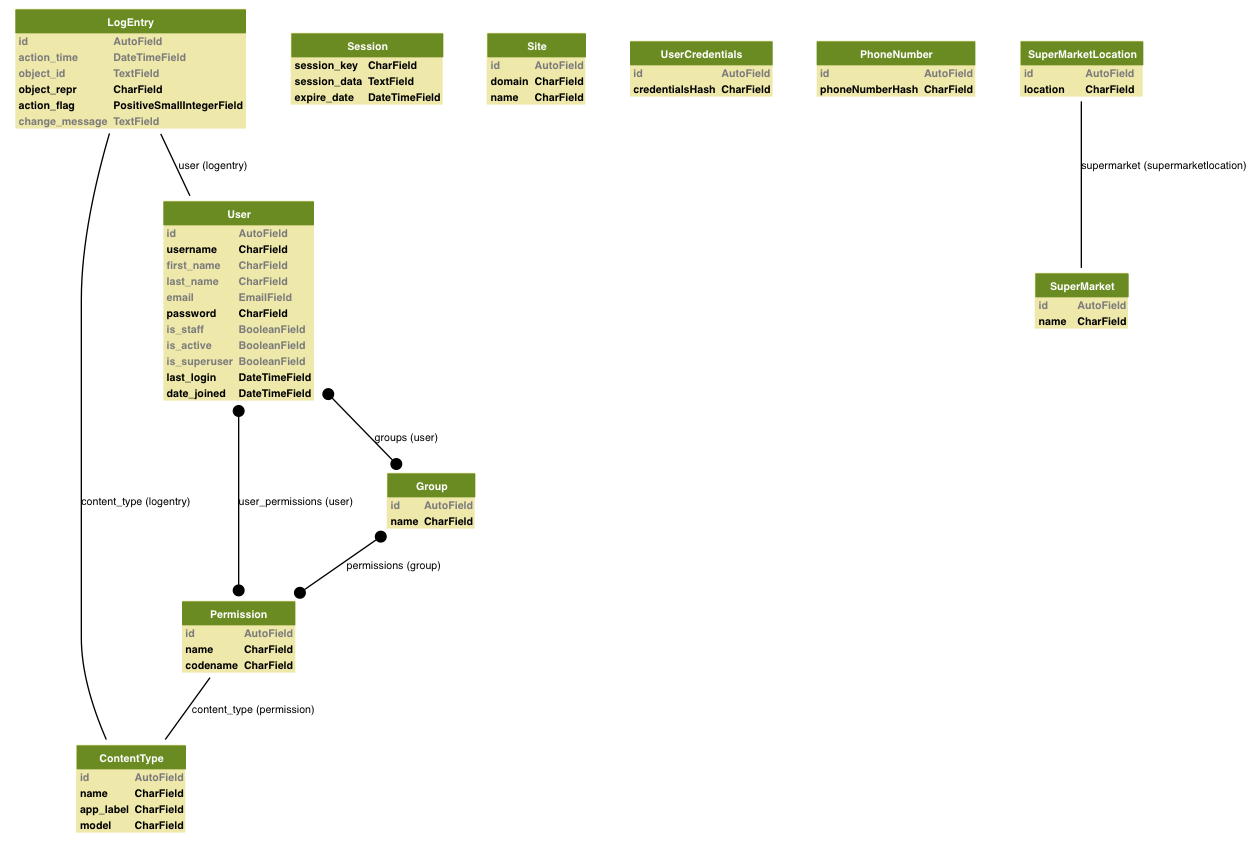
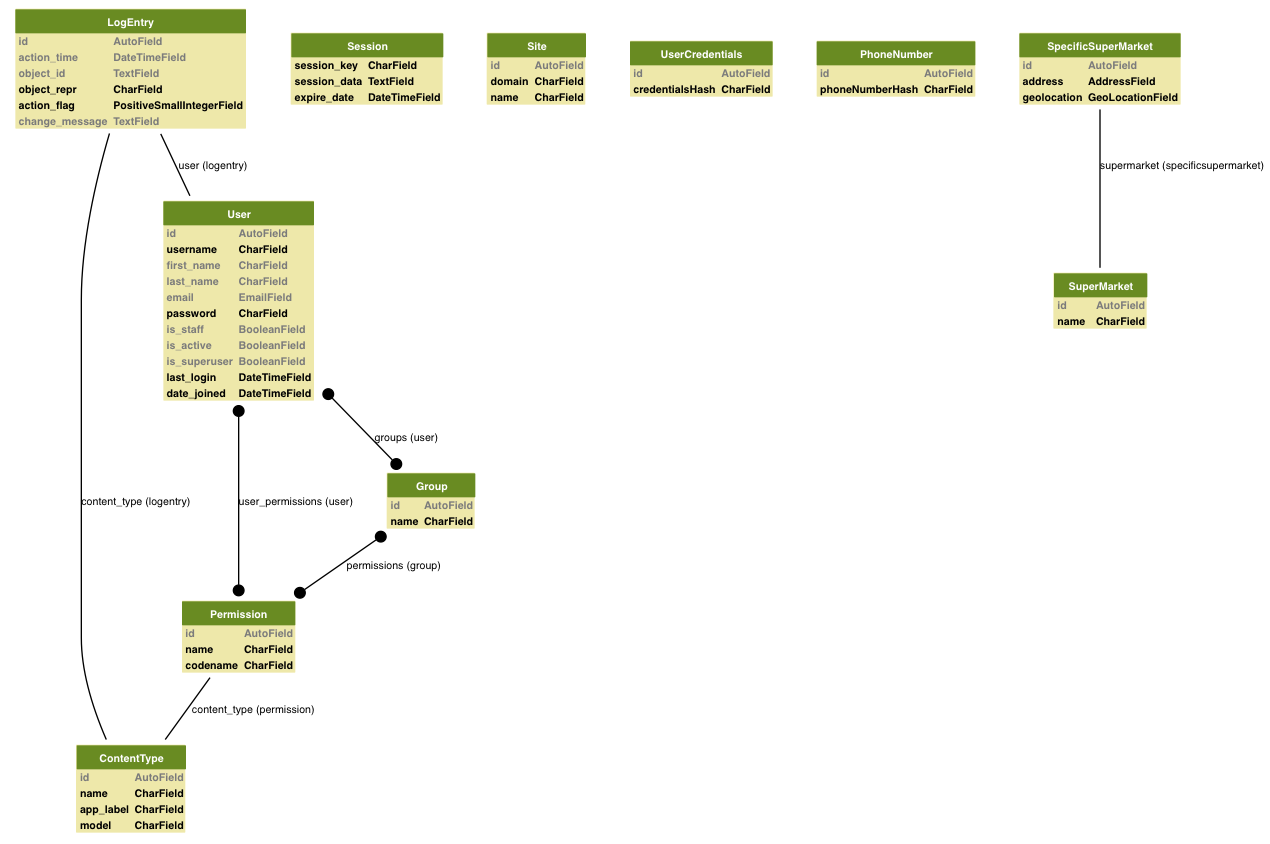
Geolocations

diff --git a/static/static/django_google_maps/js/google-maps-admin.js b/static/static/django_google_maps/js/google-maps-admin.js
@@ -1,0 +1,123 @@
+
+/*
+Integration for Google Maps in the django admin.
+
+How it works:
+
+You have an address field on the page.
+Enter an address and an on change event will update the map
+with the address. A marker will be placed at the address.
+If the user needs to move the marker, they can and the geolocation
+field will be updated.
+
+Only one marker will remain present on the map at a time.
+
+This script expects:
+
+<input type="text" name="address" id="id_address" />
+<input type="text" name="geolocation" id="id_geolocation" />
+
+<script type="text/javascript" src="http://maps.google.com/maps/api/js?sensor=false"></script>
+
+*/
+
+function googleMapAdmin() {
+
+    var geocoder = new google.maps.Geocoder();
+    var map;
+    var marker;
+
+    var self = {
+        initialize: function() {
+            var lat = 0;
+            var lng = 0;
+            var zoom = 2;
+            // set up initial map to be world view. also, add change
+            // event so changing address will update the map
+            existinglocation = self.getExistingLocation();
+            if (existinglocation) {
+                lat = existinglocation[0];
+                lng = existinglocation[1];
+                zoom = 18;
+            }
+
+            var latlng = new google.maps.LatLng(lat,lng);
+            var myOptions = {
+              zoom: zoom,
+              center: latlng,
+              mapTypeId: google.maps.MapTypeId.HYBRID
+            };
+            map = new google.maps.Map(document.getElementById("map_canvas"), myOptions);
+            if (existinglocation) {
+                self.setMarker(latlng);
+            }
+
+            $("#id_address").change(function() {self.codeAddress();});
+        },
+
+        getExistingLocation: function() {
+            var geolocation = $("#id_geolocation").val();
+            if (geolocation) {
+                return geolocation.split(',');
+            }
+        },
+
+        codeAddress: function() {
+            var address = $("#id_address").val();
+            geocoder.geocode({'address': address}, function(results, status) {
+                if (status == google.maps.GeocoderStatus.OK) {
+                    var latlng = results[0].geometry.location;
+                    map.setCenter(latlng);
+                    map.setZoom(18);
+
+                    self.setMarker(latlng);
+                    self.updateGeolocation(latlng);
+                } else {
+                    alert("Geocode was not successful for the following reason: " + status);
+                }
+            });
+        },
+
+        setMarker: function(latlng) {
+            if (marker) {
+                self.updateMarker(latlng);
+            } else {
+                self.addMarker({'latlng': latlng, 'draggable': true});
+            }
+        },
+
+        addMarker: function(Options) {
+            marker = new google.maps.Marker({
+                map: map,
+                position: Options.latlng
+            });
+
+            var draggable = Options.draggable || false;
+            if (draggable) {
+                self.addMarkerDrag(marker);
+            }
+        },
+
+        addMarkerDrag: function() {
+            marker.setDraggable(true);
+            google.maps.event.addListener(marker, 'dragend', function(new_location) {
+                self.updateGeolocation(new_location.latLng);
+            });
+        },
+
+        updateMarker: function(latlng) {
+            marker.setPosition(latlng);
+        },
+
+        updateGeolocation: function(latlng) {
+            $("#id_geolocation").val(latlng.lat() + "," + latlng.lng());
+        }
+    }
+
+    return self;
+}
+
+$(document).ready(function() {
+    var googlemap = googleMapAdmin();
+    googlemap.initialize();
+});

diff --git a/static/static/django_google_maps/css/google-maps-admin.css b/static/static/django_google_maps/css/google-maps-admin.css
@@ -1,0 +1,4 @@
+
+#id_address {width: 40em;}
+.map_canvas_wrapper {margin-left: 106px;}
+#map_canvas {width: 100%; height: 40em;}

diff --git a/EtikTak/settings.py b/EtikTak/settings.py
@@ -102,9 +102,6 @@ ROOT_URLCONF = 'EtikTak.urls'
 # Python dotted path to the WSGI application used by Django's runserver.
 WSGI_APPLICATION = 'EtikTak.wsgi.application'
 
-MAP_API='google'
-MAP_API_KEY='AIzaSyByFZJomT67Zug0EPEiVXKWGJp-EGymNlQ'
-
 TEMPLATE_DIRS = ('/Users/daniel/projects/EtikTak/templates',)
 
 INSTALLED_APPS = (
@@ -115,6 +112,7 @@ INSTALLED_APPS = (
     'django.contrib.messages',
     'django.contrib.staticfiles',
     'django_extensions',
+    'django_google_maps',
     # Uncomment the next line to enable the admin:
     'django.contrib.admin',
     # Uncomment the next line to enable admin documentation:

diff --git a/EtikTakProject/admin.py b/EtikTakProject/admin.py
@@ -1,6 +1,13 @@
-from EtikTakProject.models import UserCredentials, PhoneNumber, SuperMarket, SuperMarketLocation
+from EtikTakProject.models import UserCredentials, PhoneNumber, SuperMarket, SpecificSuperMarket
 from django.contrib import admin
+from django_google_maps import widgets as map_widgets
+from django_google_maps import fields as map_fields
+
+class SpecificSuperMarketAdmin:
+    formfield_overrides = {
+            map_fields.AddressField: {'widget': map_widgets.GoogleMapsAddressWidget},
+    }
 
 admin.site.register(SuperMarket)
-admin.site.register(SuperMarketLocation)
+admin.site.register(SpecificSuperMarket)
 

diff --git a/EtikTakProject/models.py b/EtikTakProject/models.py
@@ -1,4 +1,5 @@
 from django.db import models
+from django_google_maps import fields as map_fields
 
 #from django_extensions.db.fields.encrypted import EncryptedCharField
 
@@ -14,8 +15,7 @@ class PhoneNumber(models.Model):
 class SuperMarket(models.Model):
     name = models.CharField(max_length=255)
 
-class SuperMarketLocation(models.Model):
+class SpecificSuperMarket(models.Model):
+    address = map_fields.AddressField(max_length=200)
+    geolocation = map_fields.GeoLocationField(max_length=100)
     supermarket = models.ForeignKey(SuperMarket)
-    location = models.CharField(max_length=255)
-
-
